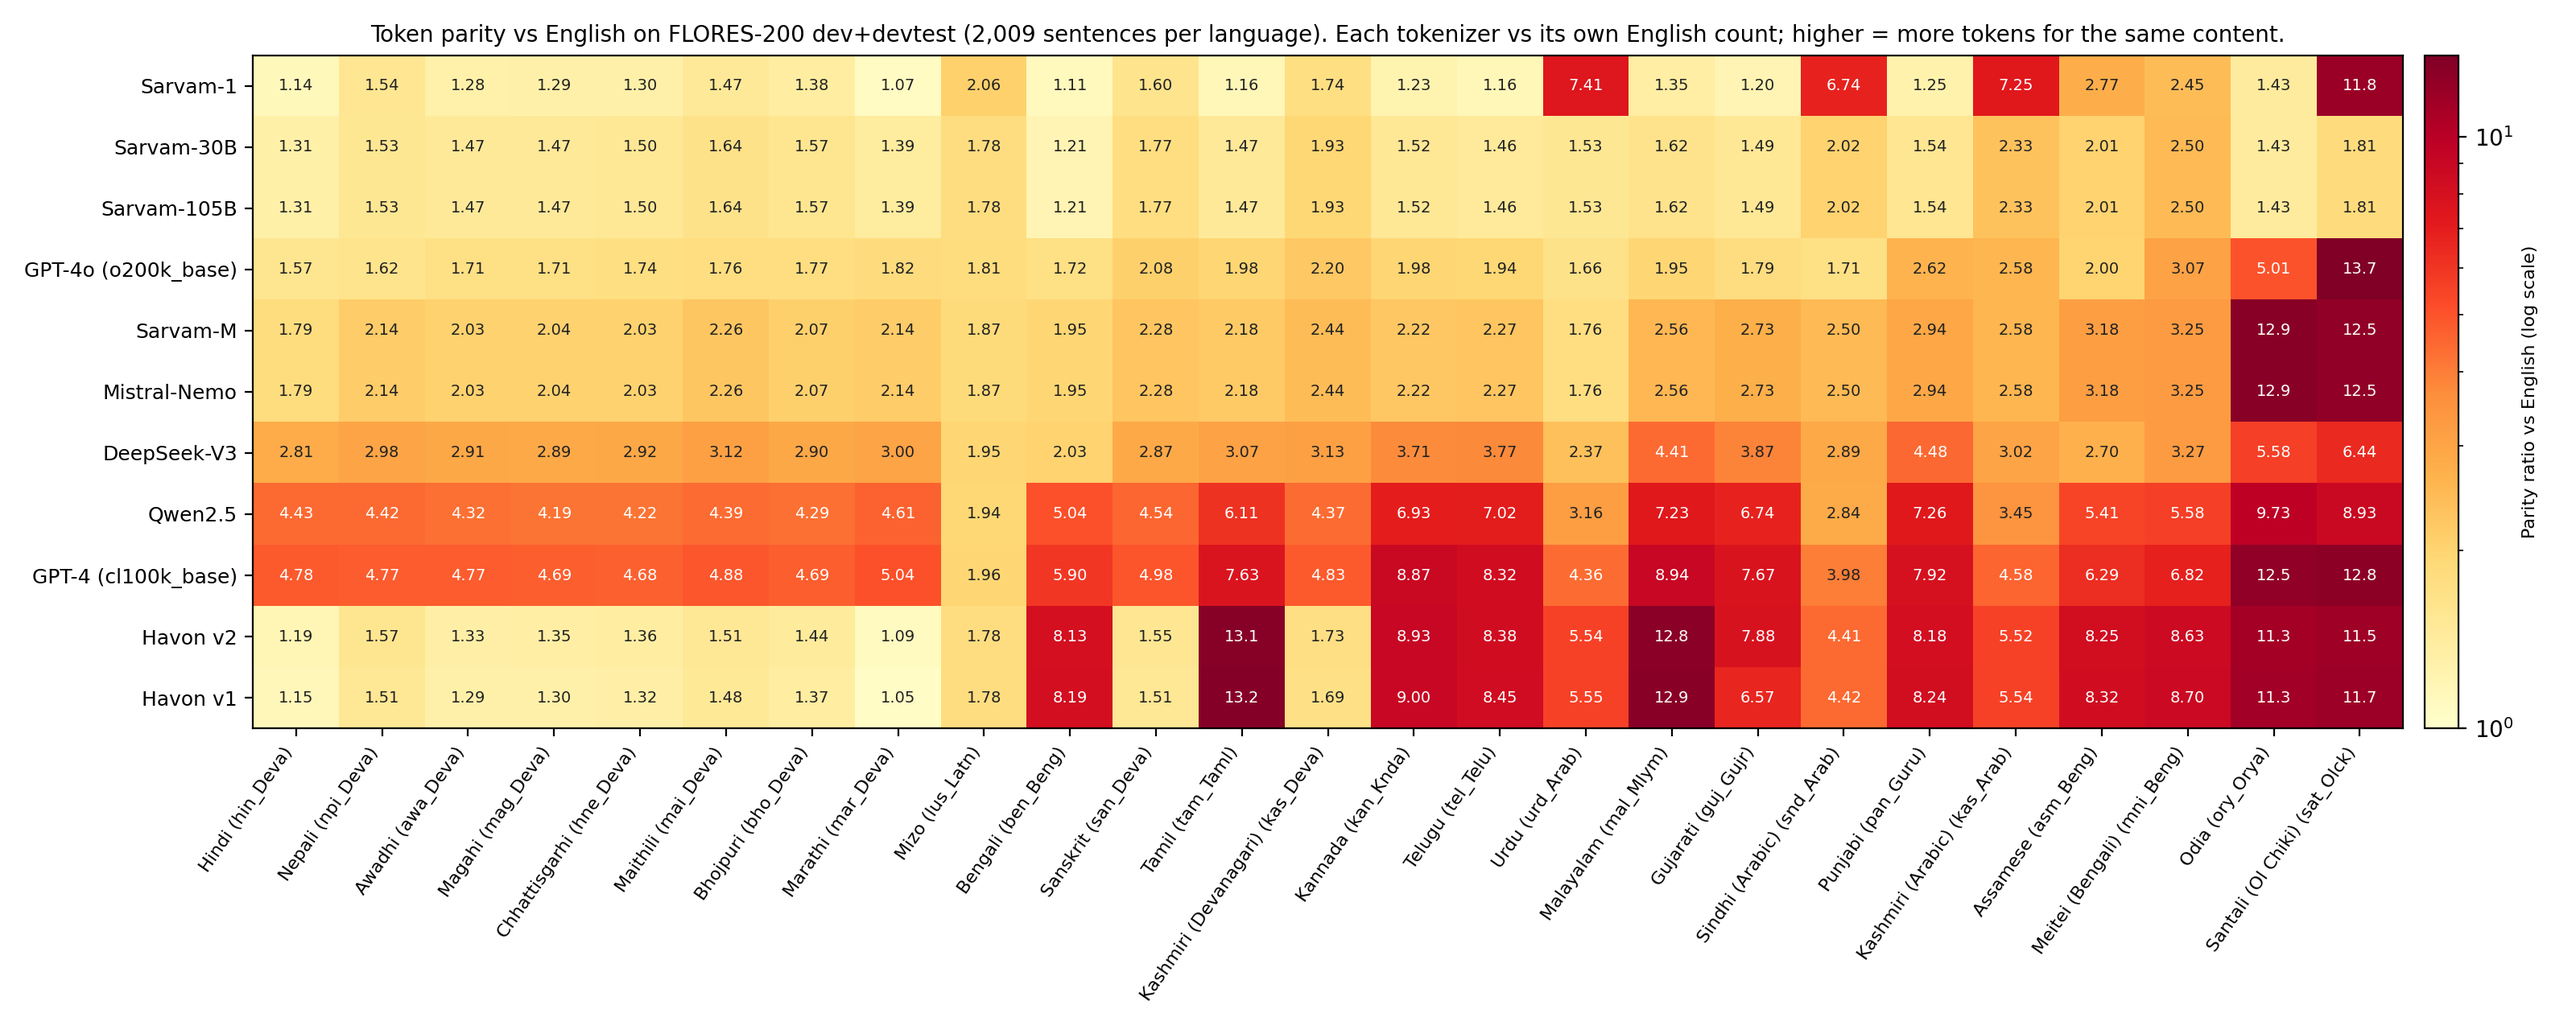
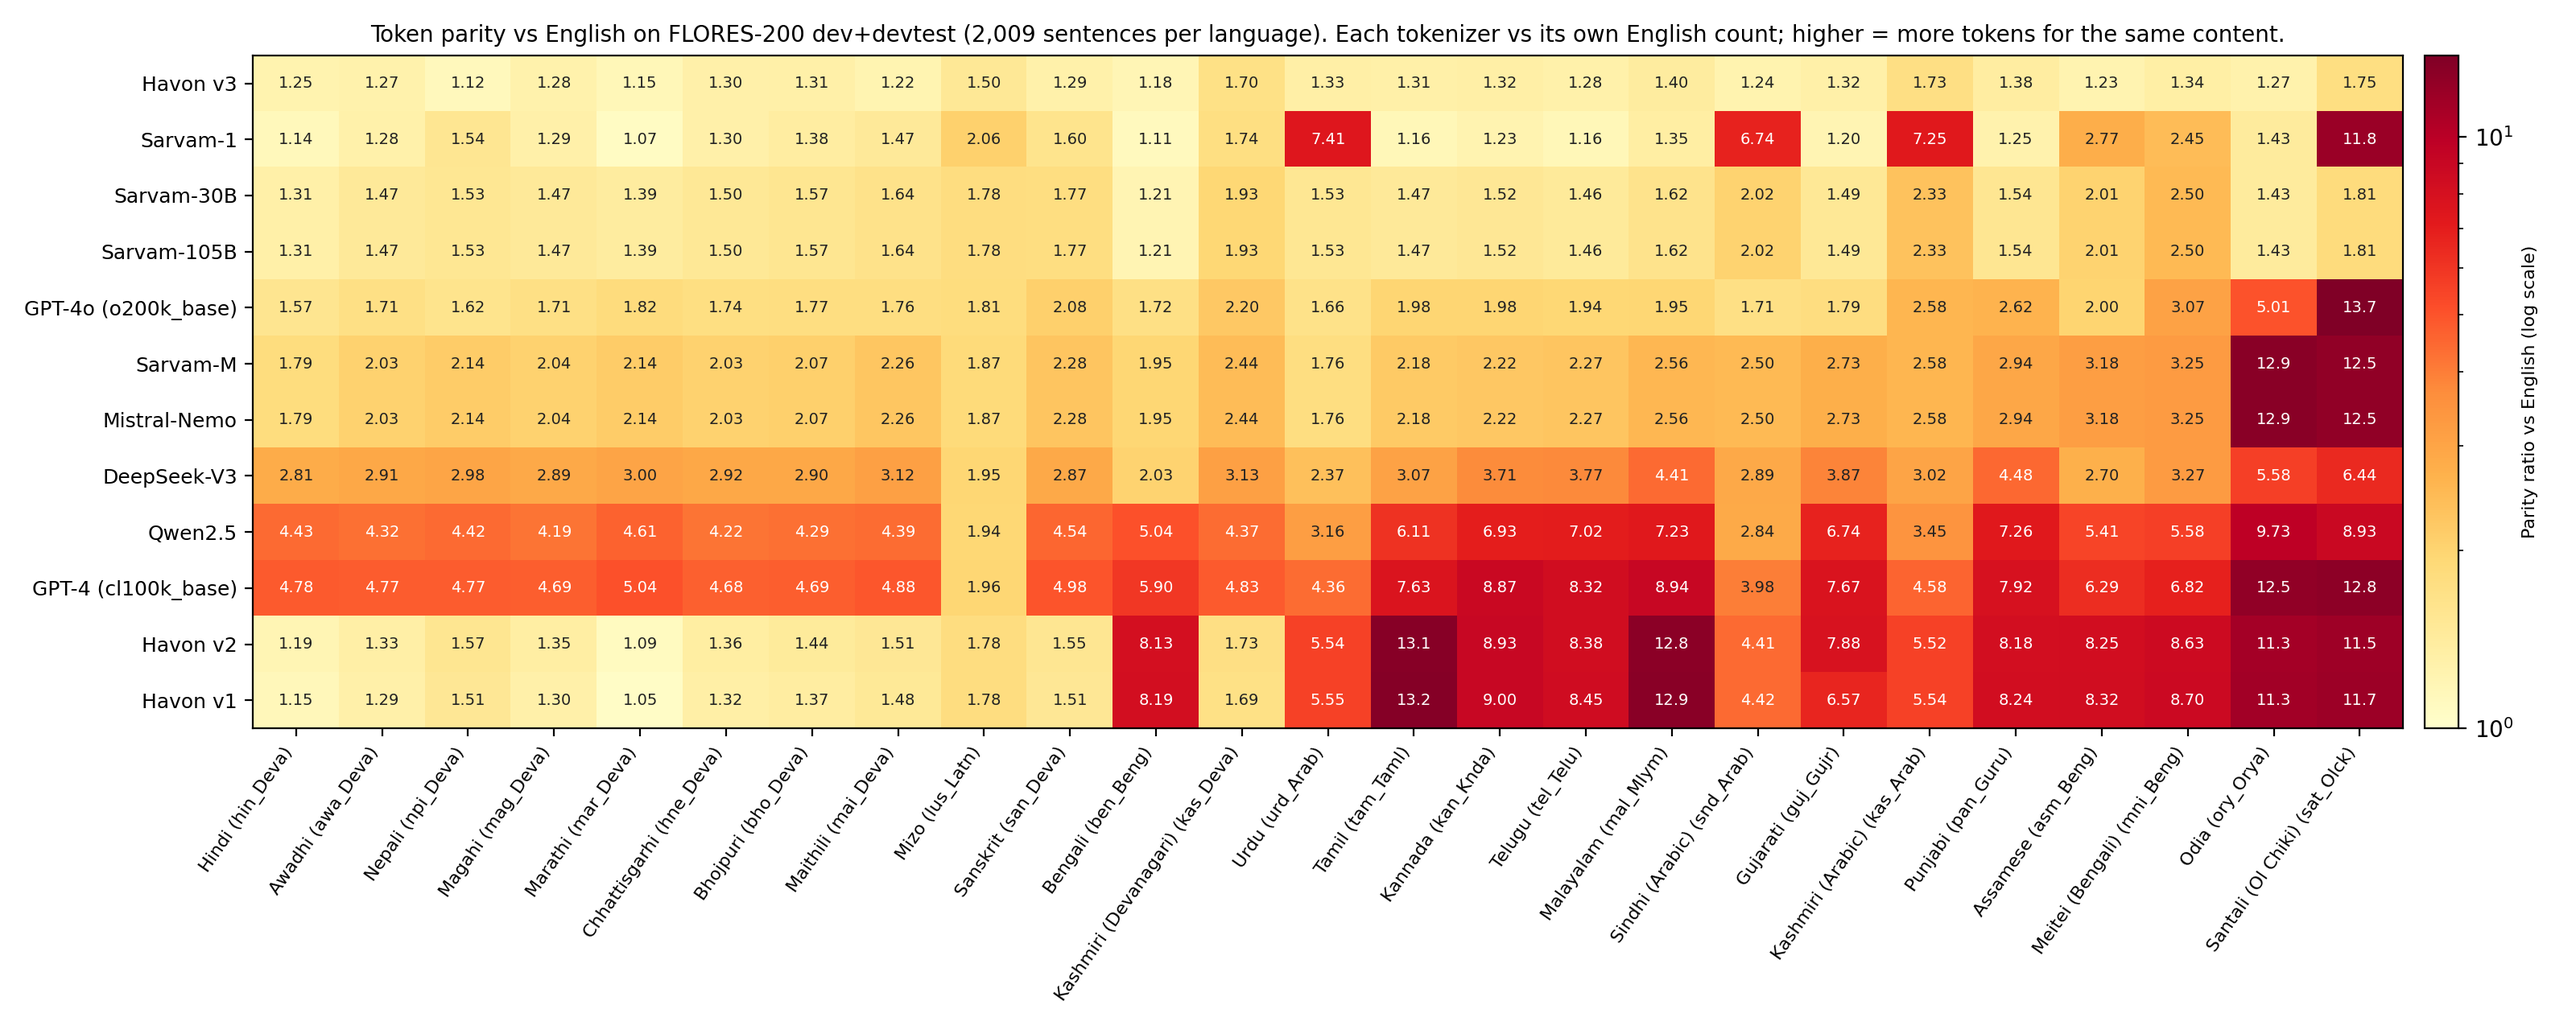
Include Havon v3 in all measurement results

diff --git a/README.md b/README.md
@@ -10,7 +10,7 @@ Python 3.12 or later. Run all commands from the repository root.
 
 ```bash
 pip install -r requirements.txt
-TOK=(--tokenizer "Havon v1=tokenizers/havon_v1/tokenizer.json" --tokenizer "Havon v2=tokenizers/havon_v2/tokenizer.json")
+TOK=(--tokenizer "Havon v1=tokenizers/havon_v1/tokenizer.json" --tokenizer "Havon v2=tokenizers/havon_v2/tokenizer.json" --tokenizer "Havon v3=tokenizers/havon_v3/tokenizer.json")
 python measure.py --mecorpus PATH/TO/me_roman.txt "${TOK[@]}"   # FLORES-200, PHINC, HingCorpus, MeCorpus
 python morph_align.py "${TOK[@]}"                               # morpheme boundary alignment (MorphTok)
 python cost.py                                                  # illustrative rupee cost example
